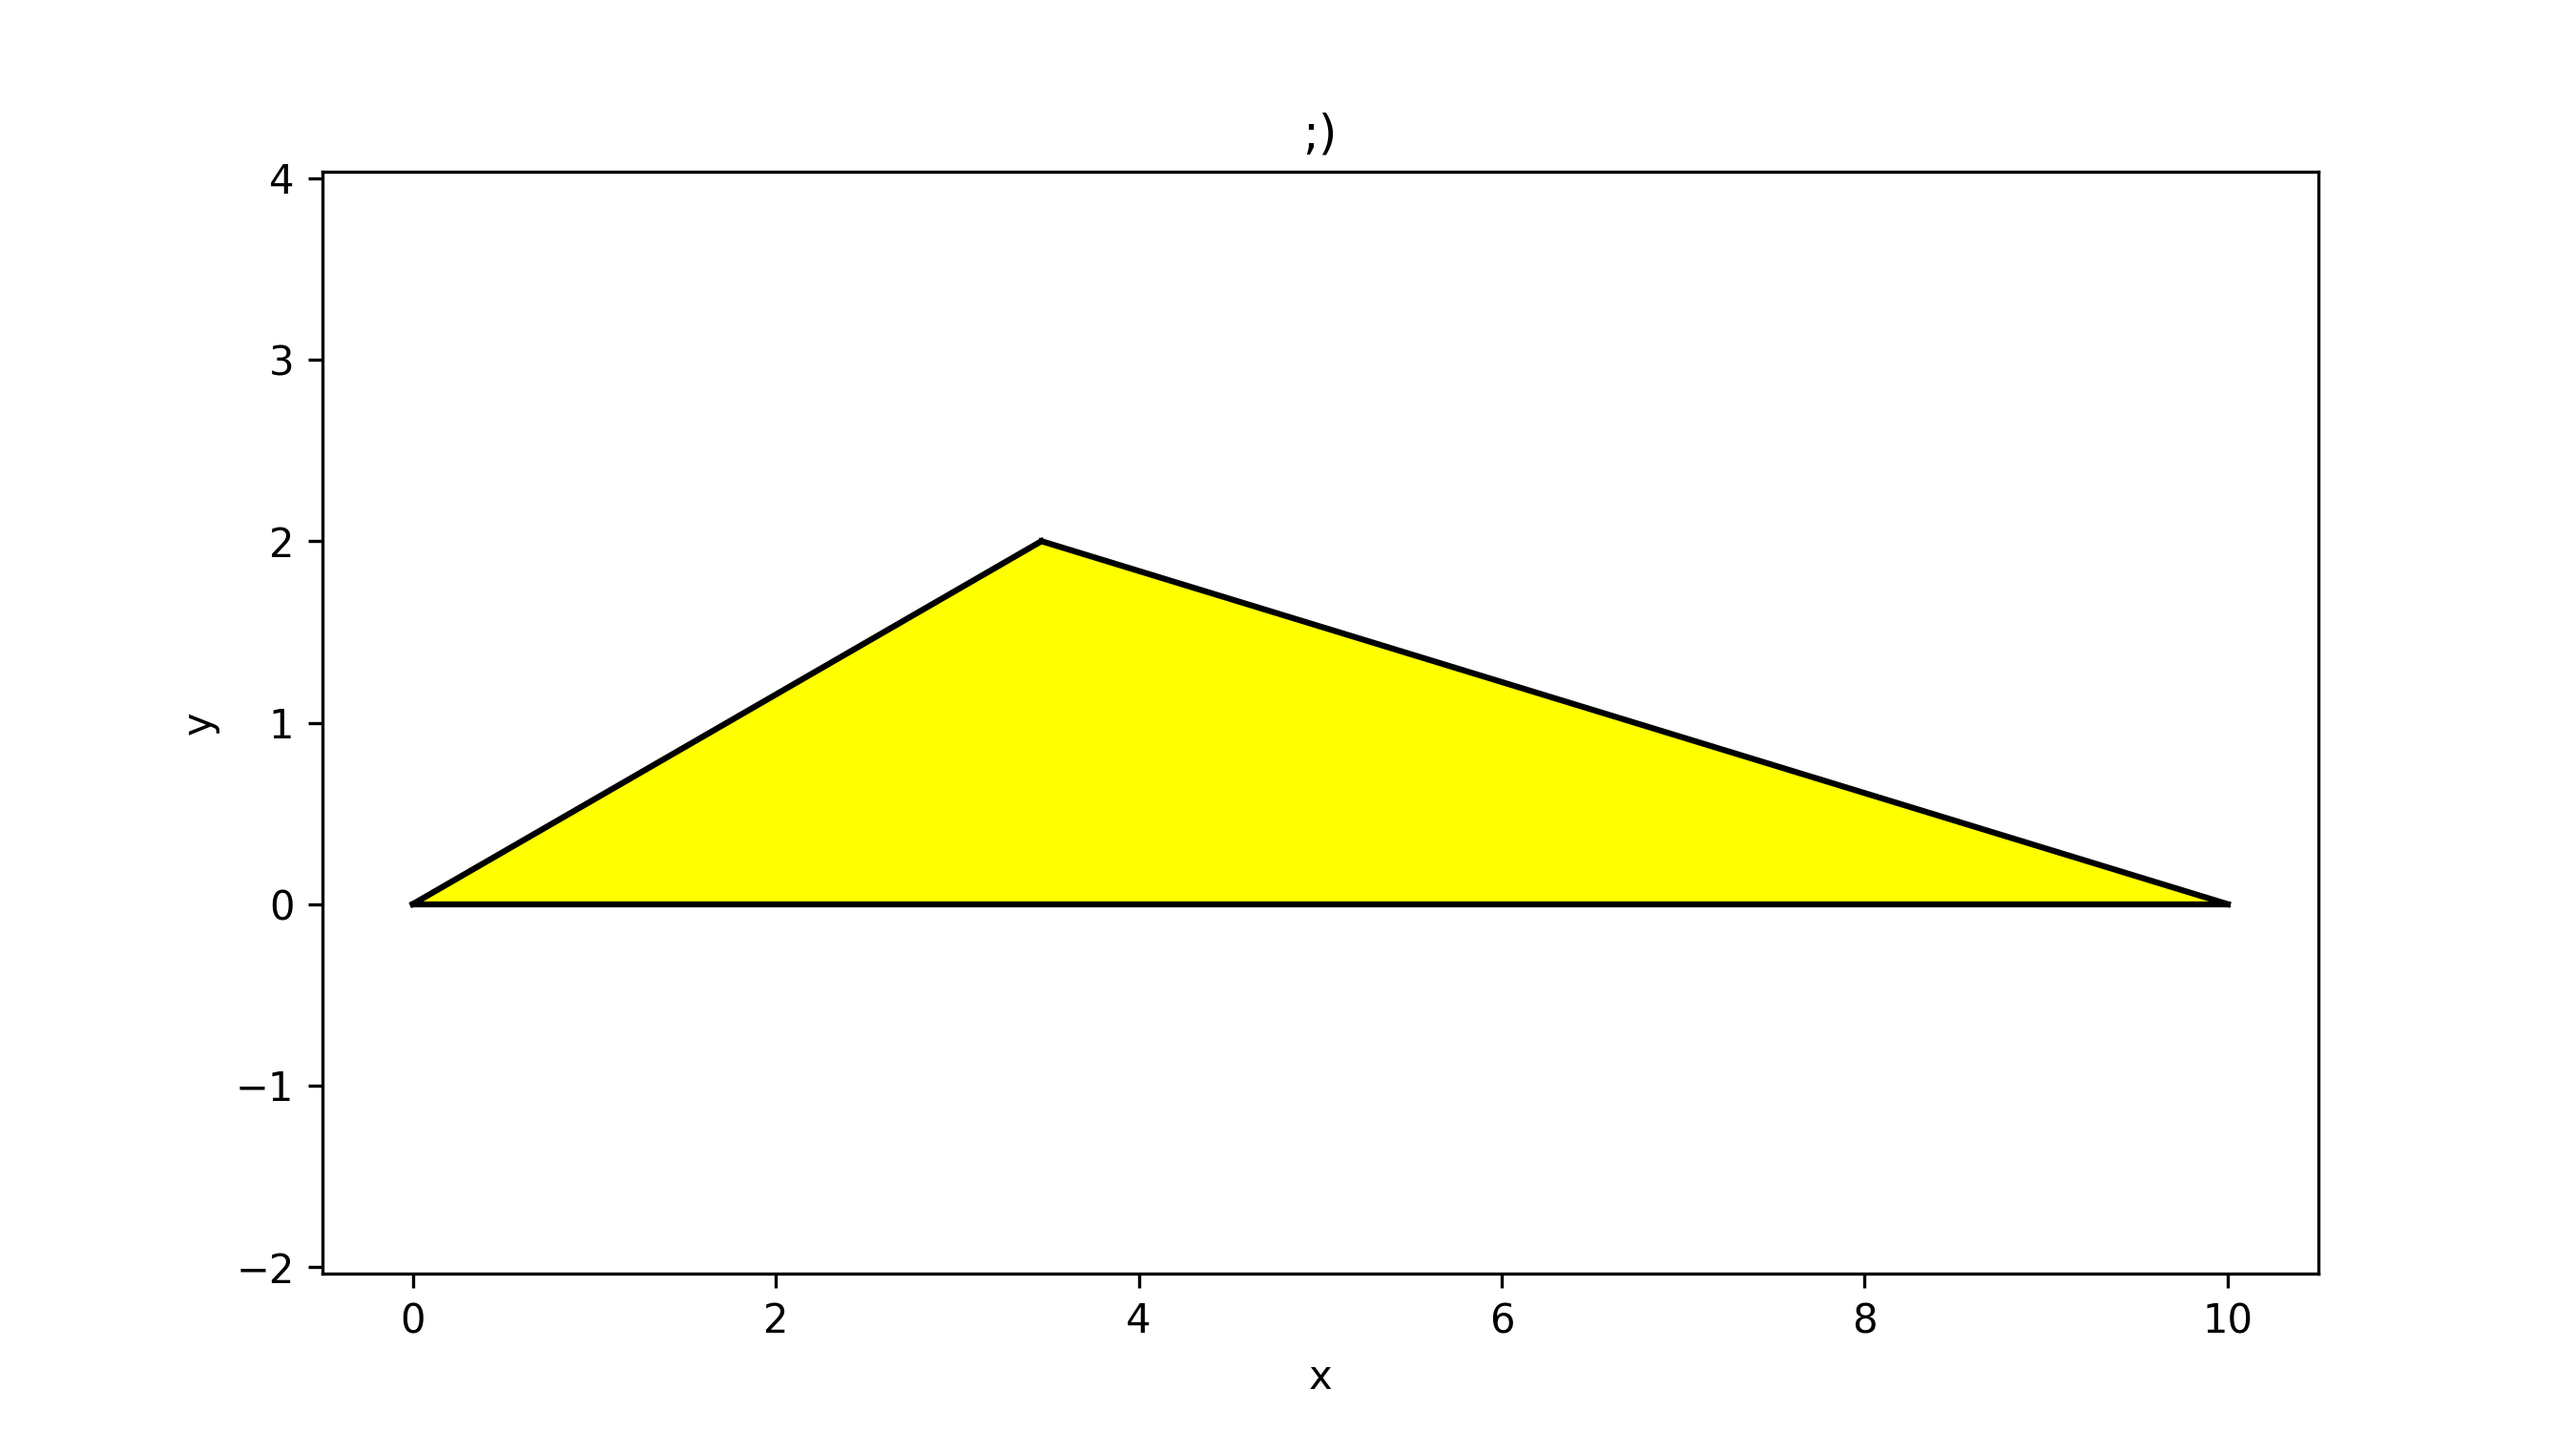
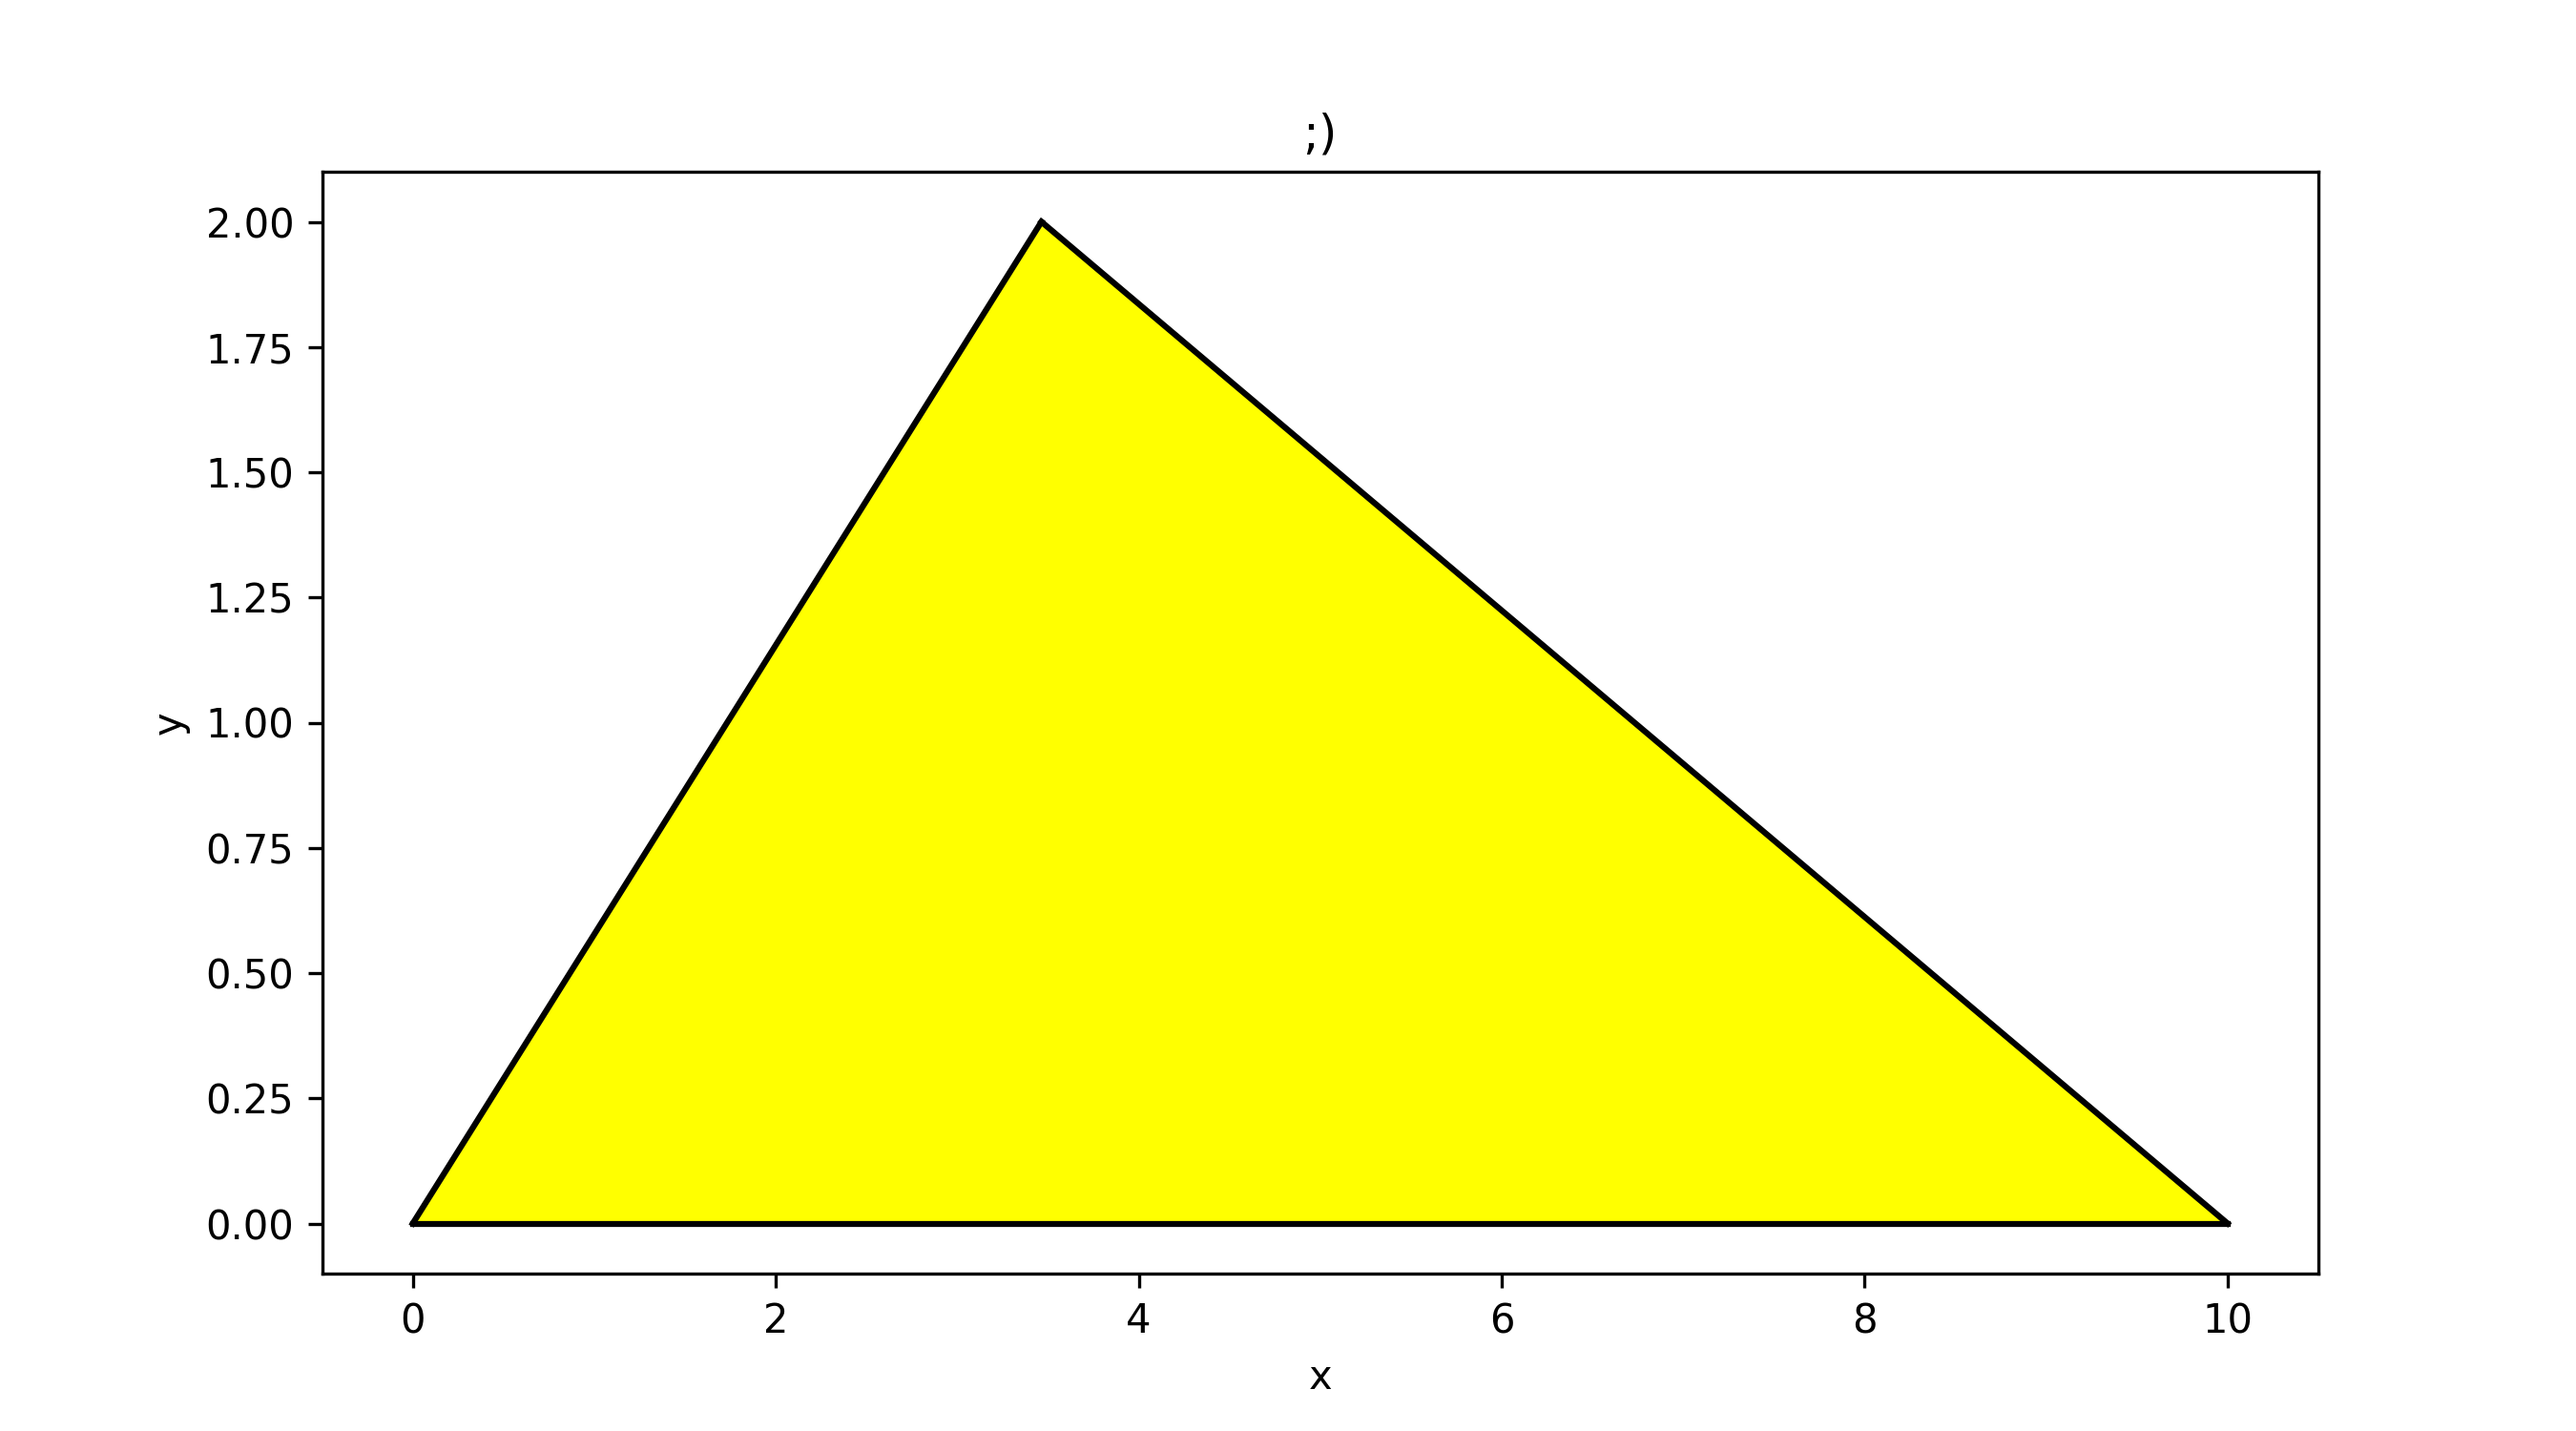
general moments fixed

diff --git a/IGI/LR4/task3/task3.py b/IGI/LR4/task3/task3.py
@@ -53,14 +53,11 @@ class AdditionalCalculations:
         return round(series / n, 4)
 
 class PlotBuilder:
-    def __init__(self, n):
-        self._n = n
-
-    def buildPlot(self):
+    def buildPlot(self, n):
         x = np.linspace(-0.99, 0.99, 200)
 
         func1 = np.log(1 - x)
-        func2 = sum((-1) * x**i / i for i in range(1, self._n))
+        func2 = sum((-1) * x**i / i for i in range(1, n))
 
         plt.plot(x, func1, color='g')
         plt.plot(x, func2, color='y')
@@ -69,9 +66,9 @@ class PlotBuilder:
         plt.xlabel('X')
         plt.ylabel('Y')
         plt.title('Series plots')
-        plt.text(-0.95, -4, 'And a little bit of text\nright here')
         plt.annotate('Some annotation here', (-0.95, -3))
-
+        plt.text(-0.95, -4, 'And a little bit of text\nright here')
+    
         plt.grid(True)
         figure = plt.gcf()
         figure.set_size_inches(9, 5)
@@ -92,6 +89,6 @@ class TaskThird(GeneralTask):
                 series = Series(x, eps)
                 iterations = series.calculateSeries()
 
-                plotBuilder = PlotBuilder(iterations)
-                plotBuilder.buildPlot()
+                plotBuilder = PlotBuilder()
+                plotBuilder.buildPlot(iterations)
                 return

diff --git a/IGI/LR4/task5/task5.py b/IGI/LR4/task5/task5.py
@@ -3,7 +3,7 @@ from inputvalidator import *
 from generaltask import GeneralTask
 
 class InputMatrixMixin:
-    matrix : any
+
     def input_matrix(self):
         n = inputValidate("\033[1mEnter the number of rows:\033[00m ", TYPES.INT) 
         m = inputValidate("\033[1mEnter the number of columns:\033[00m ", TYPES.INT) 
@@ -22,8 +22,6 @@ class InputMatrixMixin:
         return self.matrix
 
 class MatrixHandler(InputMatrixMixin):
-    
-
     @property
     def matrix_(self):
         return self.matrix

diff --git a/IGI/LR4/additionaltask/additionaltask.py b/IGI/LR4/additionaltask/additionaltask.py
@@ -34,6 +34,3 @@ class TaskAdditional(GeneralTask):
         mean_activity_less_sleep = dtframe[dtframe['Sleep Duration'] < mean_sleep]['Physical Activity Level'].mean()
         print(f"\033[92m\033[1mАктивность людей, продолжительность сна которых не ниже среднего:\033[00m {round(mean_activity_less_sleep, 2)}")
 
-if __name__ == '__main__':
-    task6 = TaskAdditional()
-    task6()

diff --git a/IGI/LR4/task4/task4.py b/IGI/LR4/task4/task4.py
@@ -82,7 +82,6 @@ class TriangleBuilder:
 
         plt.fill(dots[hull.vertices, 0], dots[hull.vertices, 1], self._triangle.color.color)
 
-        plt.axis('equal')
         plt.xlabel('x')
         plt.ylabel('y')
 
